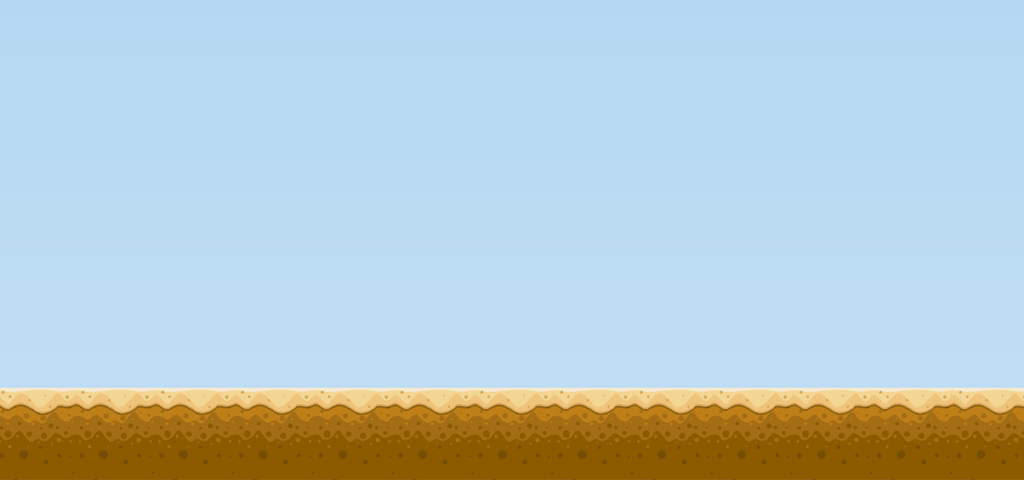
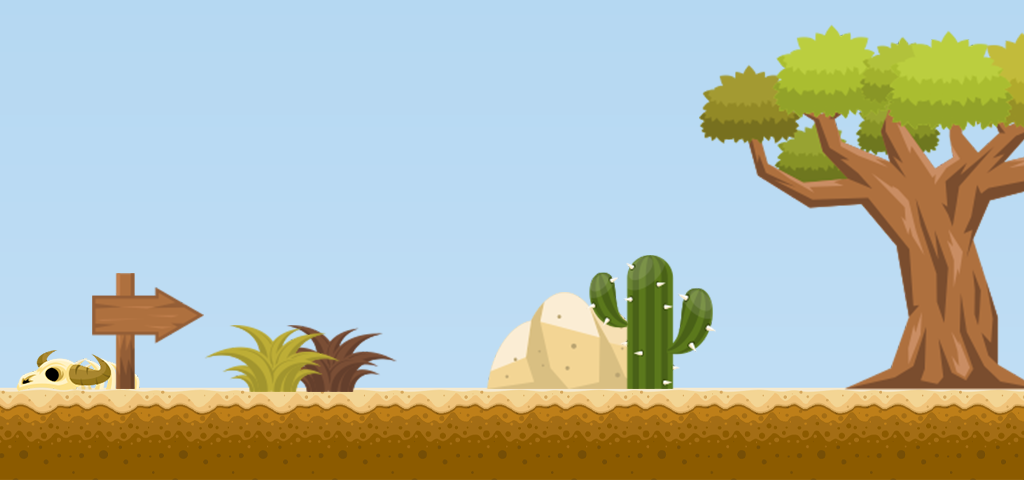
Volume regulator included and works!!!!!
Also improved background of main menu

Changed region(s): [[0.6875, 0.0625, 1.0, 0.8125], [0.0, 0.5625, 0.375, 0.8438], [0.4688, 0.5312, 0.7188, 0.8125]]

diff --git a/INDIANA JUMPS/Motor2D/j1MainMenu.cpp b/INDIANA JUMPS/Motor2D/j1MainMenu.cpp
@@ -63,6 +63,8 @@ bool j1MainMenu::Start()
 	UI_spritesheet = App->tex->Load("gui/atlas_new.png");
 	VolumeRect = { 0,225,500,75 };
 
+	logo = { 224,0,304,169 };
+
 	current_animation = &idle;
 
 	//Background of the menu
@@ -83,22 +85,13 @@ bool j1MainMenu::Start()
 	App->gui->element_list.add(App->gui->SpawnText(850, 184, 0, TEXT, "CREDITS", { 230,115,0,0 }));
 	App->gui->element_list.add(App->gui->SpawnText(873, 325, 0, TEXT, "EXIT", { 230,115,0,0 }));
 
-	App->gui->element_list.add(App->gui->SpawnText(15, -10, 1, TEXT, "Indiana Jumps", { 0, 0, 0, 0 }));
-	
-	//App->gui->element_list.add(App->gui->SpawnText(30, 20, 0, TEXT, "INDIANA JUMPS", { 0,200,0,0 }));
-
-	//Loading Fonts
-	//App->font->font_title = App->font->Load("fonts/Adventure.ttf", 12);
-	//App->font->font_buttons = App->font->Load("fonts/West.ttf", 8);
-
 	return true;
 }
 
 bool j1MainMenu::Update(float dt)
 {
 	App->render->Blit(menuBackgroundTex, 0, 0, &BG_Rect);
-
-	App->audio->CurrentVolume = actualVolume / 4;
+	App->render->Blit(UI_spritesheet, 20, 20, &logo);
 
 	VolumeToMove = { 0,300,actualVolume,75 };
 
@@ -109,25 +102,21 @@ bool j1MainMenu::Update(float dt)
 	if (mouseInButton == false) 
 	{
 		current_animation = &idle;
-		App->render->Blit(IndianaJumps, 200, 148, &current_animation->GetCurrentFrame());
+		App->render->Blit(IndianaJumps, 300, 148, &current_animation->GetCurrentFrame());
 	}
 	else 
 	{
 		current_animation = &running;
-		App->render->Blit(IndianaJumps, 200, 148, &current_animation->GetCurrentFrame());
+		App->render->Blit(IndianaJumps, 300, 148, &current_animation->GetCurrentFrame());
 	}
-
-	if (App->input->GetKey(SDL_SCANCODE_M) == KEY_DOWN)
-		App->audio->MusicVolume(App->audio->GetVolume() + 10.0f);
-
-	if (App->input->GetKey(SDL_SCANCODE_N) == KEY_DOWN)
-		App->audio->MusicVolume(App->audio->GetVolume() - 10.0f);
 
 	if (showVolume) 
 	{
 		App->gui->element_list.add(App->gui->SpawnButton(300, 400, VOLUME));
 		App->render->Blit(UI_spritesheet, 300, 400, &VolumeRect);
 		App->render->Blit(UI_spritesheet, 300, 400, &VolumeToMove);
+		
+		App->audio->MusicVolume(actualVolume / 4);
 	}
 	
 	return true;
@@ -168,14 +157,9 @@ void j1MainMenu::ManageVolume()
 	int x, y;
 	App->input->GetMousePosition(x, y);
 
-	if (x > 300 && x < 800) 
+	if (x > 300 && x < 800 && y > 400 && y < 475)
 	{
 		actualVolume = (x - 300);
-	}
-	
-	if (App->input->GetMouseButtonDown(1) == KEY_REPEAT)
-	{
-		App->audio->CurrentVolume = actualVolume / 4;
 	}
 }
 

diff --git a/INDIANA JUMPS/Motor2D/j1MainMenu.h b/INDIANA JUMPS/Motor2D/j1MainMenu.h
@@ -35,6 +35,8 @@ private:
 	SDL_Rect		VolumeRect;
 	SDL_Rect		VolumeToMove;
 
+	SDL_Rect		logo;
+
 	SDL_Texture *	IndianaJumps = nullptr;
 	SDL_Rect		PlayerRect;
 
@@ -46,7 +48,8 @@ private:
 
 	int				actualVolume;
 
-	bool mouseInButton = false;
+	bool			mouseInButton = false;
+	bool			mouseInVolume = false;
 
 };
 
